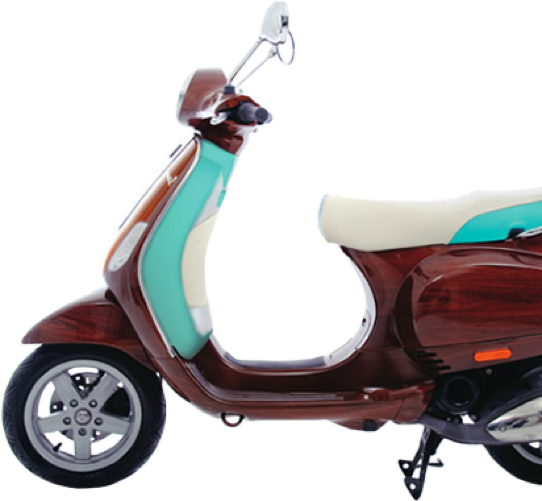
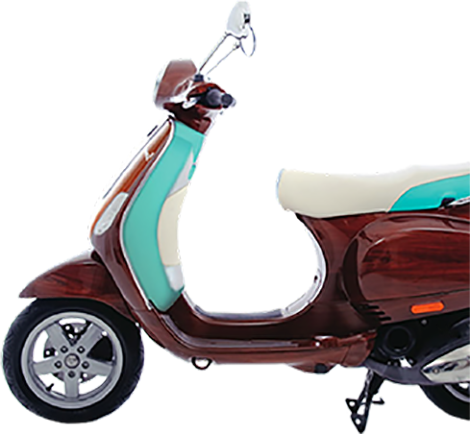
css edits take 1

diff --git a/css/style.css b/css/style.css
@@ -104,11 +104,13 @@ li {
 
 .content {
   margin-left: 50px;
-  padding-bottom: 50px;
+  padding-bottom: 125px;
 }
 
 .content #vespa {
-  margin-right: -100px;
+  float: right;
+  margin-top: -200px;
+  margin-right: -80px;
 }
 
 
@@ -125,18 +127,15 @@ li {
 }
 
 .adventure .content {
-  margin-left: 600px;
+  margin-left: 525px;
   background-color: #ffffff;
   opacity: .9;
   padding: 30px;
 }
 
-.adventure .content h1{
-  padding-top: 30px;
-}
 
 .adventure .content p{
-  margin-bottom: 48px;
+  margin-bottom: 56px;
 }
 
 
@@ -144,9 +143,19 @@ li {
 /* SPECS */
 
 .specs {
+  background-image: url(../images/panel3.png);
   background-color: #cbe3e6;
-  height: 600px;
-  width: 100%;
+  height: 525px;
+}
+
+.specs h1{
+  padding-top: 40px;
+  margin-left: 75px;
+}
+
+.specs img{
+  margin-left: 25%;
+  margin-right: 25%;
 }
 
 /* GALLERY */
@@ -157,7 +166,7 @@ li {
 }
 
 .gallery {
-  background-color: #70BE98;
+  background-color: #d8ede3;
 }
 
 /* JOIN NOW */
@@ -168,7 +177,7 @@ li {
 }
 
 .joinnow {
-  background-color: #4FA1AA;
+  background-color: #95c7cc;
   color: #474747;
   height: 130px;
   font-size: 10pt;

diff --git a/index.html b/index.html
@@ -38,16 +38,17 @@
           </div>    
   </header>
     
-    <div id="vespa">
-    <img src="images/vespa1.png" alt="vespa">
-    </div>
-
+  
     <h3> Introducing the </h3>
-  <h1> Vespa Tribute </h1>
-  <p> Scheduled for release in June 2016, this limited edition scooter will <br> only be produced 250 times.    Enter your email below to be partnered <br> with a Vespa representative who will ensure that you stay updated <br> and informed about how be part of this exclusive venture. </p>
+    <h1> Vespa Tribute </h1>
+      <p> Scheduled for release in June 2016, this limited edition scooter will <br> only be produced 250 times.    Enter your email below to be partnered <br> with a Vespa representative who will ensure that you stay updated <br> and informed about how be part of this exclusive venture. </p>
   
     <input type="text" name="emailaddress" placeholder="Email address">
   <button type="button">Get exclusive Info</button>
+
+  <div id="vespa">
+    <img src="images/vespa1.png" alt="vespa">
+    </div>
     
 </div>
 
